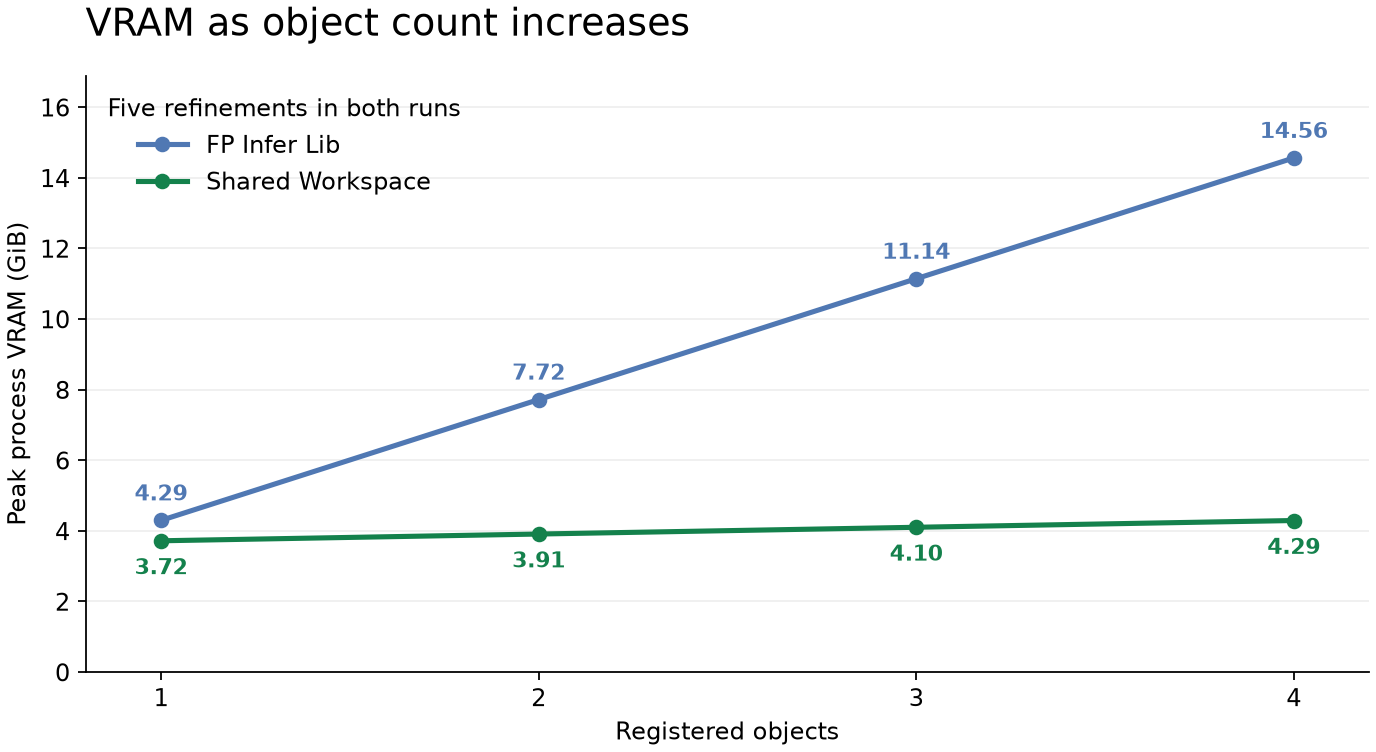
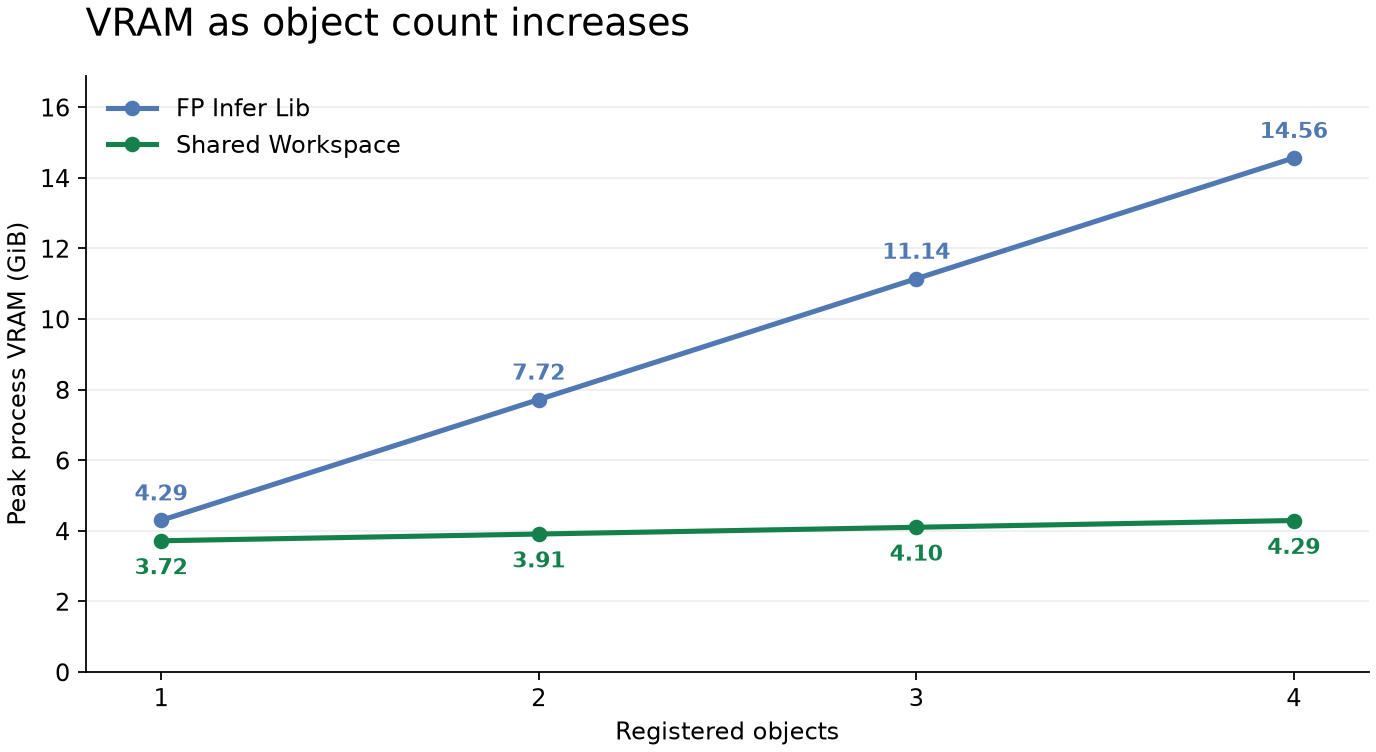
Combine Shared Workspace entries in the VRAM scaling section

Changed region(s): [[0.0625, 0.1223, 0.3438, 0.2753]]

diff --git a/RESULTS.md b/RESULTS.md
@@ -56,16 +56,18 @@ For four cans, FP Infer Lib tracked fastest at **3.89 ms** and retained **14.56 
 
 For this sweep, all runs replayed the same recording of four physical cans. A warmed 320 × 320 YOLOE-26n TensorRT FP16 engine at confidence 0.25 found all four cans on all 16 frames. Each run registered the first one, two, three, or four masks from left to right in a fresh process. All runs returned every requested pose on 11 registration frames and then tracked five more frames.
 
-| Registered cans | Original FP peak (GiB) | FP Infer Lib peak (GiB) | Shared Workspace peak, 5 refinements (GiB) | Shared Workspace peak, 3 refinements (GiB) |
-|---:|---:|---:|---:|---:|
-| 1 | 6.86 | 4.29 | 3.72 | 3.72 |
-| 2 | 7.05 | 7.72 | 3.91 | 3.91 |
-| 3 | 7.24 | 11.14 | 4.10 | 4.10 |
-| 4 | 7.43 | 14.56 | 4.29 | 4.29 |
+Sampled peak process VRAM in GiB.
+
+| Registered cans | Original FP | FP Infer Lib | Shared Workspace |
+|---:|---:|---:|---:|
+| 1 | 6.86 | 4.29 | 3.72 |
+| 2 | 7.05 | 7.72 | 3.91 |
+| 3 | 7.24 | 11.14 | 4.10 |
+| 4 | 7.43 | 14.56 | 4.29 |
 
 ![Peak process VRAM by registered object count for FP Infer Lib and Shared Workspace](docs/media/vram-by-object-count.png)
 
-FP Infer Lib allocates a GPU workspace for each estimator. In this sweep, peak process VRAM grew by about **3.42 GiB per additional can**. Shared Workspace reuses the large buffers and added about **0.19 GiB per can** at either refinement count. With four cans it retained **3.20 GiB** after tracking, compared with **14.56 GiB** for FP Infer Lib.
+FP Infer Lib allocates a GPU workspace for each estimator. In this sweep, peak process VRAM grew by about **3.42 GiB per additional can**. Shared Workspace reuses the large buffers and added about **0.19 GiB per can**. With four cans it retained **3.20 GiB** after tracking, compared with **14.56 GiB** for FP Infer Lib.
 
 Original FP uses the demo’s sequential runner. It shares the refiner and scorer across objects and added about **0.19 GiB per can**, starting from a higher one-can peak.
 
@@ -75,13 +77,13 @@ To repeat the sweep, replay the same capture and YOLO TensorRT engine with `benc
 
 We fit a straight line to each runtime’s measured peak process VRAM at one through four cans. Estimated capacity is the largest whole number of objects that fits the line within the budget. The calculation uses the full VRAM budget with zero extra headroom and applies no dashboard object limit.
 
-| VRAM budget (GiB) | Original FP | FP Infer Lib | Shared Workspace, 5 refinements | Shared Workspace, 3 refinements |
-|---:|---:|---:|---:|---:|
-| 8 | 7 | 2 | 23 | 23 |
-| 16 | 49 | 4 | 65 | 65 |
-| 24 | 91 | 6 | 106 | 106 |
-| 32 | 134 | 9 | 148 | 148 |
-| 64 | 303 | 18 | 315 | 315 |
+| VRAM budget (GiB) | Original FP | FP Infer Lib | Shared Workspace |
+|---:|---:|---:|---:|
+| 8 | 7 | 2 | 23 |
+| 16 | 49 | 4 | 65 |
+| 24 | 91 | 6 | 106 |
+| 32 | 134 | 9 | 148 |
+| 64 | 303 | 18 | 315 |
 
 The fitted peak is `baseline + GiB per object × object count`. The table rounds down using the unrounded fit.
 
@@ -89,8 +91,7 @@ The fitted peak is `baseline + GiB per object × object count`. The table rounds
 |---|---:|---:|
 | Original FP | 6.672 | 0.189 |
 | FP Infer Lib | 0.872 | 3.423 |
-| Shared Workspace, 5 refinements | 3.525 | 0.191 |
-| Shared Workspace, 3 refinements | 3.525 | 0.191 |
+| Shared Workspace | 3.525 | 0.191 |
 
 Only one through four objects were measured. The larger counts are memory extrapolations. GPU overhead, other workloads, larger meshes and different engine settings can change usable capacity. The estimates do not impose a latency target.
 

diff --git a/README.md b/README.md
@@ -31,7 +31,7 @@ All four runtimes processed the same recorded frames.
 
 ![Four-can comparison of registration latency, peak VRAM and VRAM after tracking](docs/media/four-can-comparison.png)
 
-On this recording, each added can increased peak VRAM by about **3.42 GiB** with FP Infer Lib and **0.19 GiB** with Shared Workspace. Both used five refinements. [VRAM scaling and capacity estimates](RESULTS.md#vram-by-object-count)
+On this recording, each added can increased peak VRAM by about **3.42 GiB** with FP Infer Lib and **0.19 GiB** with Shared Workspace. [VRAM scaling and capacity estimates](RESULTS.md#vram-by-object-count)
 
 [Full setup, registration and tracking results](RESULTS.md#four-physical-cans)
 
